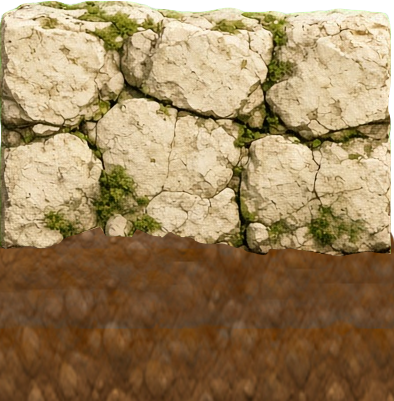
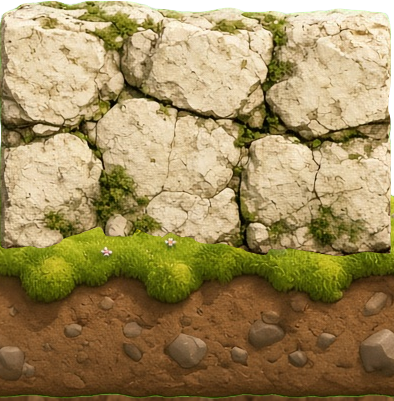
Glen's topsoil versions of the boulder and limestone base pieces; their grass now lines up with the ground's grass line (boulder is 3 tiles tall to match the art)
Claude-Session: https://claude.ai/code/session_016VHELo1zrDikPBbWGWgYSe

Changed region(s): [[0.0, 0.4788, 1.0, 1.0]]

diff --git a/game/main.js b/game/main.js
@@ -290,7 +290,7 @@ if (LEVEL_NAME === "test") {
   hornet(108, 11); hornet(131, 10);                     // hornets: they dive at you. Sling them.
   food("wild_gourds", 106, 16); food("dates", 109, 16);  label(104, 11, "Wild gourds are poison (2 Kings 4:39)");
   deco("fig_tree", 114, 16, 1.0, "back", "special");         // figs, and a hidden special stone
-  boulder(115, 15, 6, 2);
+  boulder(115, 14, 6, 3);
   ground(126, 232);
   deco("vineyard", 129, 16, 1.2); deco("crops", 135, 16, 1.1);
   rock(140, 10, 3, 7); food("fig_cake", 141, 9);      label(136, 8, "Flip up for the fig cake");
@@ -720,7 +720,10 @@ function terPiece(name, x, y, h, flip = false) {   // one piece scaled to height
   return w;
 }
 // Glen's boulder: measured on his image (pixels): where the rock is, and which row of the soil texture its soil starts on
-const BOULDER = { rockCenterX: 487, rockTop: 2, soilOffset: 24 };
+const BOULDER = { rockCenterX: 487, grassRow: 320, soilOffset: 24 };   // grassRow: where Glen's topsoil sits on the boulder image
+const BASE_GRASS_FRAC = 0.64;   // where the grass band sits down Glen's base pieces
+const TER_GRASS_CENTER = 3;     // the ground's grass sits this many pixels above the ground line
+function boulderTopY(groundY) { return groundY - TER_GRASS_CENTER - BOULDER.grassRow * sedScale(); }
 function sedScale() { return Math.round(664 * TUNE.TER_FILL_SCALE) / 664; }
 // shift the ground's soil layers so they line up with the first boulder's soil
 let sedimentPhase = null;
@@ -728,7 +731,8 @@ function getSedimentPhase() {
   if (sedimentPhase !== null) return sedimentPhase;
   const P = Math.round(664 * TUNE.TER_FILL_SCALE); sedimentPhase = 0;
   for (let r = 0; r < ROWS && !sedimentPhase; r++) for (let c = 0; c < COLS; c++) if (solid[r][c] === 4) {
-    const y0 = r * T - BOULDER.rockTop * sedScale();
+    let h = 0; while (matAt(c, r + h) === 4) h++;
+    const y0 = boulderTopY((r + h) * T);
     sedimentPhase = ((y0 - BOULDER.soilOffset * sedScale()) % P + P) % P; break;
   }
   return sedimentPhase;
@@ -774,7 +778,7 @@ function drawTiles(camX) {
       const on = c <= c1 && matAt(c, r) === 2 && matAt(c, r + 1) === 1;
       if (on && start < 0) start = c;
       if (!on && start >= 0) {
-        const h = TUNE.TER_BASE_H, y = (r + 1) * T - h * 0.52, x0 = start * T, x1 = c * T;
+        const h = TUNE.TER_BASE_H, y = (r + 1) * T - TER_GRASS_CENTER - h * BASE_GRASS_FRAC, x0 = start * T, x1 = c * T;
         const lw = TER.base_left.naturalWidth * h / (TER.base_left.naturalHeight || 1);
         const rw = TER.base_right.naturalWidth * h / (TER.base_right.naturalHeight || 1);
         terStrip("base_mid", x0 + lw * 0.3, x1 - rw * 0.3, y, h, 0.06);
@@ -794,7 +798,7 @@ function drawTiles(camX) {
     const img = ITEM.boulder_mound; if (!img || !img.naturalWidth) continue;
     // drawn at the ground soil's own scale, rock centred on the block, its soil sunk into the ground (layers line up, see sedimentPhase)
     const sc = sedScale(), bw = img.naturalWidth * sc, bh = img.naturalHeight * sc;
-    ctx.drawImage(img, (c + w / 2) * T - BOULDER.rockCenterX * sc, r * T - BOULDER.rockTop * sc, bw, bh);
+    ctx.drawImage(img, (c + w / 2) * T - BOULDER.rockCenterX * sc, boulderTopY((r + h) * T), bw, bh);
   }
   // 4) cliff edges where the ground meets a pit
   for (let c = c0; c <= c1; c++) {
